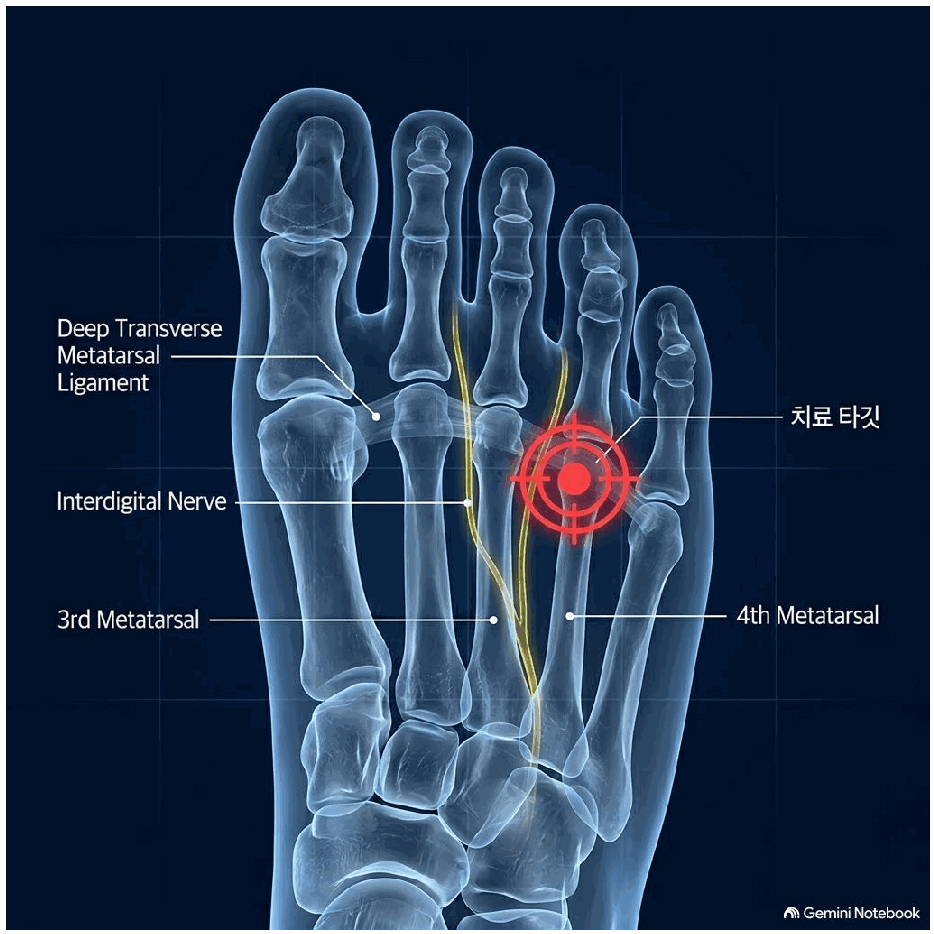
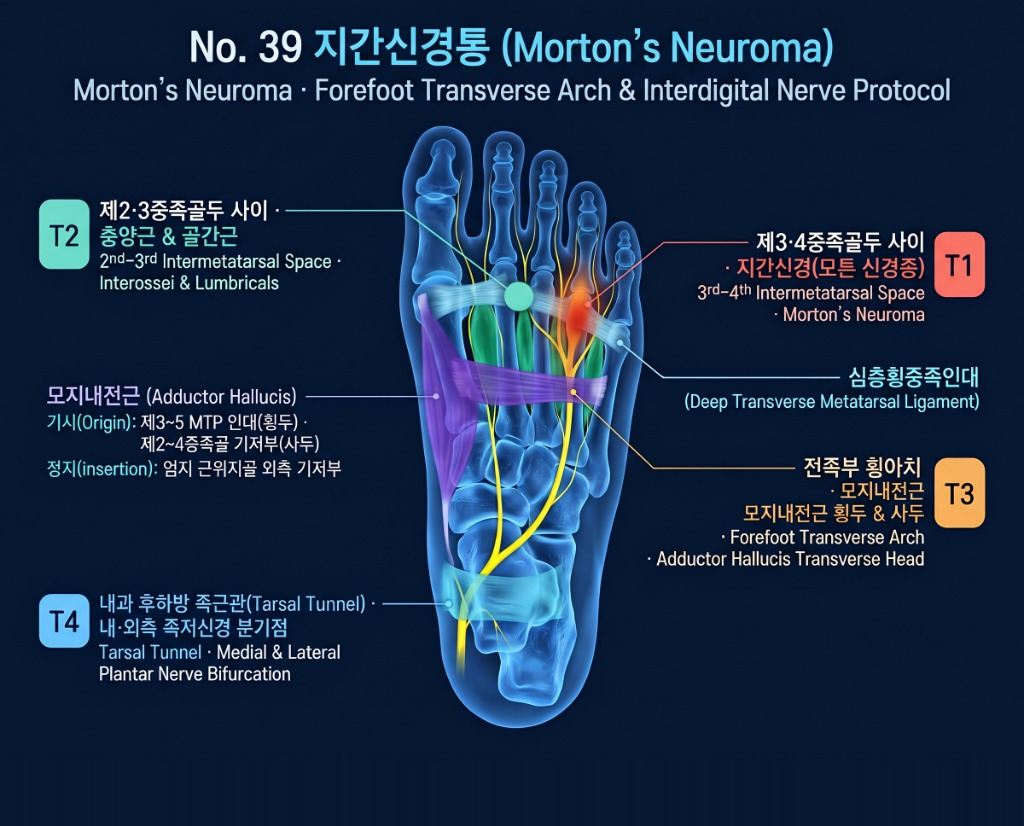
feat(healing-app): upgrade No.39 Morton's neuroma plate and align T1-T4 pins

diff --git a/healing-app/js/pain_data.js b/healing-app/js/pain_data.js
@@ -4923,7 +4923,7 @@ window.PAIN_CONDITIONS = [
     ],
     "title": {
       "ko": "지간신경통 (Morton's Neuroma)",
-      "en": "Morton's Neuroma"
+      "en": "Morton's Neuroma (Forefoot Transverse Arch & Interdigital Nerve Protocol)"
     },
     "symptoms": {
       "ko": "3/4번 중족골두 사이 발바닥/발등으로 뻗치는 찌릿한 방사통, 걸을 때 발바닥 통증.",
@@ -4934,12 +4934,12 @@ window.PAIN_CONDITIONS = [
       "en": "Interdigital branches of medial/lateral plantar nerves entrapped/irritated beneath deep transverse metatarsal ligament."
     },
     "targetTissues": {
-      "ko": "심층횡중족인대(Deep transverse metatarsal ligament).",
-      "en": "Deep transverse metatarsal ligament."
+      "ko": "제3·4중족골두 사이 지간신경(모튼 신경종) 및 심층횡중족인대(Deep Transverse Metatarsal Ligament), 제2·3중족골두 사이 충양근·골간근, 모지내전근(Adductor Hallucis · 기시: 제3~5 MTP 인대 횡두·제2~4중족골 기저부 사두 / 정지: 엄지 근위지골 외측 기저부), 내과 후하방 족근관(내·외측 족저신경 분기점).",
+      "en": "3rd-4th intermetatarsal space common digital nerve & deep transverse metatarsal ligament, 2nd-3rd intermetatarsal interossei & lumbricals, adductor hallucis (transverse & oblique heads), and tarsal tunnel medial/lateral plantar nerve bifurcation."
     },
     "palpation": {
-      "ko": "3/4번 중족골두 사이 발등 쪽에서 자입하여 인대를 뚫는 깊이(피부 2cm 깊이) 압통점.",
-      "en": "Tender point inserted dorsally between 3rd/4th metatarsal heads penetrating to ligament depth (2 cm depth)."
+      "ko": "① 제3·4중족골두 사이 지간신경(모튼 신경종) ② 제2·3중족골두 사이 충양근 & 골간근 ③ 전족부 횡아치 · 모지내전근 횡두 & 사두 ④ 내과 후하방 족근관 · 내·외측 족저신경 분기점.",
+      "en": "3rd-4th intermetatarsal space (Morton's neuroma), 2nd-3rd intermetatarsal space (interossei & lumbricals), forefoot transverse arch (adductor hallucis), and tarsal tunnel plantar nerve bifurcation."
     },
     "clinicalCase": {
       "ko": "3번째와 4번째 발가락 사이 발바닥이 화끈거리고 자갈을 밟는 듯 찌릿하던 지간신경통(몰톤신경종) 사례. 발등 3-4 중족골두 사이 심층인대 부위에 NovaCell Therapy를 정밀 통전하여 신경 유착을 해소하고 보행 시 찌릿한 방사통 완치.",
@@ -4950,73 +4950,73 @@ window.PAIN_CONDITIONS = [
       {
         "code": "T1",
         "color": "#ff334b",
-        "x": 61.1,
-        "y": 51.4,
+        "x": 56.6,
+        "y": 37.9,
         "role": {
           "ko": "주 신경포착점",
-          "en": "Primary Nerve Entrapment"
+          "en": "Primary Interdigital Entrapment"
         },
         "name": {
-          "ko": "T1: 제3·4중족골두 사이(3rd-4th Intermetatarsal Space) 지간신경·심횡중족인대점",
-          "en": "T1: 3rd-4th Intermetatarsal Space Morton's Neuroma & Deep Transverse Ligament"
+          "ko": "T1: 제3·4중족골두 사이 · 지간신경(모튼 신경종)",
+          "en": "T1: 3rd-4th Intermetatarsal Space · Morton's Neuroma"
         },
         "desc": {
-          "ko": "[표적 해부] 제3중족골두와 제4중족골두 사이 심층횡중족인대 하방의 총족저지신경(지간신경) 포착점.\n[촉지 및 시술] 발등 쪽에서 3·4번째 발가락 뿌리 뼈 사이를 약 2cm 깊이로 누르면서 발볼 양옆을 모아 쥐었을 때(Mulder's click) 찌릿한 핵심 타깃입니다.",
-          "en": "3rd-4th intermetatarsal web space at level of metatarsal heads and deep transverse metatarsal ligament."
+          "ko": "[표적 해부] 제3·4중족골두 사이 심층횡중족인대(Deep Transverse Metatarsal Ligament) 아래에서 내·외측 족저신경 분지가 합류·압박되는 모튼 신경종 최다 호발 포착점.\n[촉지 및 시술] 3·4번째 발가락 뿌리(발볼) 사이 뼈 틈새 압통점. 걸을 때 발바닥 앞쪽에 자갈을 밟는 듯한 이물감과 3·4지 찌릿한 방사통을 직접 감압합니다.",
+          "en": "Primary Morton's neuroma entrapment beneath the deep transverse metatarsal ligament between the 3rd and 4th metatarsal heads."
         }
       },
       {
         "code": "T2",
         "color": "#00f5d4",
-        "x": 67.0,
-        "y": 63.0,
+        "x": 50.6,
+        "y": 35.8,
         "role": {
-          "ko": "심부 근복·근막점",
-          "en": "Deep Myofascial Trigger Point"
+          "ko": "심부 근복·지간점",
+          "en": "2nd-3rd Intermetatarsal Target"
         },
         "name": {
-          "ko": "T2: 제2·3중족골두 사이 및 충양근·골간근(Interossei & Lumbricals) 압통점",
-          "en": "T2: 2nd-3rd Intermetatarsal Space & Dorsal/Plantar Interossei Point"
+          "ko": "T2: 제2·3중족골두 사이 · 충양근 & 골간근",
+          "en": "T2: 2nd-3rd Intermetatarsal Space · Interossei & Lumbricals"
         },
         "desc": {
-          "ko": "[표적 해부] 제2·3중족골간 공간의 배측·족저골간근 및 충양근 근복.\n[촉지 및 시술] 중족골 사이를 조여 지간신경을 압박하는 내재근 경직을 풀어 앞발바닥 이물감과 타는 통증을 제거합니다.",
-          "en": "2nd-3rd intermetatarsal space interossei and lumbrical bellies."
+          "ko": "[표적 해부] 제2·3중족골두 사이 지간신경 주행로와 심부 충양근(Lumbricals)·족저골간근(Plantar Interossei)의 과긴장·유착 부위.\n[촉지 및 시술] 2·3번째 중족골두 사이 발볼 오목한 틈새. 인접 지간 공간의 압력을 분산하고 제2·3지 저림 및 중족골통(Metatarsalgia)을 함께 해결합니다.",
+          "en": "Interossei, lumbricals, and interdigital nerve in the 2nd-3rd intermetatarsal space; relieves adjacent forefoot compression and metatarsalgia."
         }
       },
       {
         "code": "T3",
         "color": "#ff9f43",
-        "x": 38.0,
-        "y": 62.0,
+        "x": 55.9,
+        "y": 47.4,
         "role": {
-          "ko": "심부 근복·근막점",
-          "en": "Deep Myofascial Trigger Point"
+          "ko": "횡아치·심부 근막점",
+          "en": "Forefoot Transverse Arch Target"
         },
         "name": {
-          "ko": "T3: 전족부 횡아치 단모지내전근 횡두(Adductor Hallucis Transverse Head) 타깃",
-          "en": "T3: Forefoot Transverse Arch Adductor Hallucis Transverse Head"
+          "ko": "T3: 전족부 횡아치 · 모지내전근 횡두 & 사두",
+          "en": "T3: Forefoot Transverse Arch · Adductor Hallucis Transverse & Oblique Heads"
         },
         "desc": {
-          "ko": "[표적 해부] 제2~5중족지절관절(MTP) 바닥을 가로질러 엄지로 붙는 모지내전근 횡두 및 사두.\n[촉지 및 시술] 무너진 전족부 횡아치를 복원하고 중족골두 바닥 체중부하 통증을 해소합니다.",
-          "en": "Transverse and oblique heads of adductor hallucis supporting forefoot transverse arch."
+          "ko": "[표적 해부] 무너진 전족부 횡아치(Transverse Arch)를 가로지르는 모지내전근(Adductor Hallucis) 횡두(제3~5 MTP 인대 기시) 및 사두(제2~4중족골 기저부 기시 → 엄지 근위지골 외측 정지).\n[촉지 및 시술] 중족골두 바로 아래쪽 발바닥 중앙 심부 가로 근막선. 좁아진 중족골 간격을 넓히고 횡아치 탄성을 복원하여 지간신경 재압박을 방지합니다.",
+          "en": "Transverse and oblique heads of adductor hallucis supporting the forefoot transverse arch; restores intermetatarsal spacing to prevent recurrent nerve compression."
         }
       },
       {
         "code": "T4",
         "color": "#38bdf8",
-        "x": 62.0,
-        "y": 38.0,
+        "x": 44.3,
+        "y": 73.0,
         "role": {
-          "ko": "신경 주행·분지점",
-          "en": "Nerve Pathway Target"
+          "ko": "근위 신경분기점",
+          "en": "Tarsal Tunnel Bifurcation Target"
         },
         "name": {
-          "ko": "T4: 내과 후하방 족근관(Tarsal Tunnel) 내·외측 족저신경 근위 분기점",
-          "en": "T4: Proximal Tarsal Tunnel Medial/Lateral Plantar Nerve Origin"
+          "ko": "T4: 내과 후하방 족근관(Tarsal Tunnel) · 내·외측 족저신경 분기점",
+          "en": "T4: Tarsal Tunnel · Medial & Lateral Plantar Nerve Bifurcation"
         },
         "desc": {
-          "ko": "[표적 해부] 지간신경의 본간인 내·외측 족저신경이 갈라지는 족근관 출구.\n[촉지 및 시술] 발가락 끝까지 이어지는 저림의 상류 신경 감압점입니다.",
-          "en": "Tarsal tunnel bifurcation of medial and lateral plantar nerves."
+          "ko": "[표적 해부] 발목 내과 후하방 족근관(Tarsal Tunnel) 내에서 후경골신경이 내측·외측 족저신경으로 갈라지는 근위부 분기점(Double Crush 근위 병소).\n[촉지 및 시술] 발목 안쪽 복사뼈 뒤아래 굴근지대 하부. 전족부 지간신경으로 내려가는 상류 신경 긴장을 풀어 만성·난치성 지간신경통의 근본 회복을 완성합니다.",
+          "en": "Proximal bifurcation of medial and lateral plantar nerves inside the tarsal tunnel; relieves double-crush proximal neural tension feeding Morton's neuroma."
         }
       }
     ],
